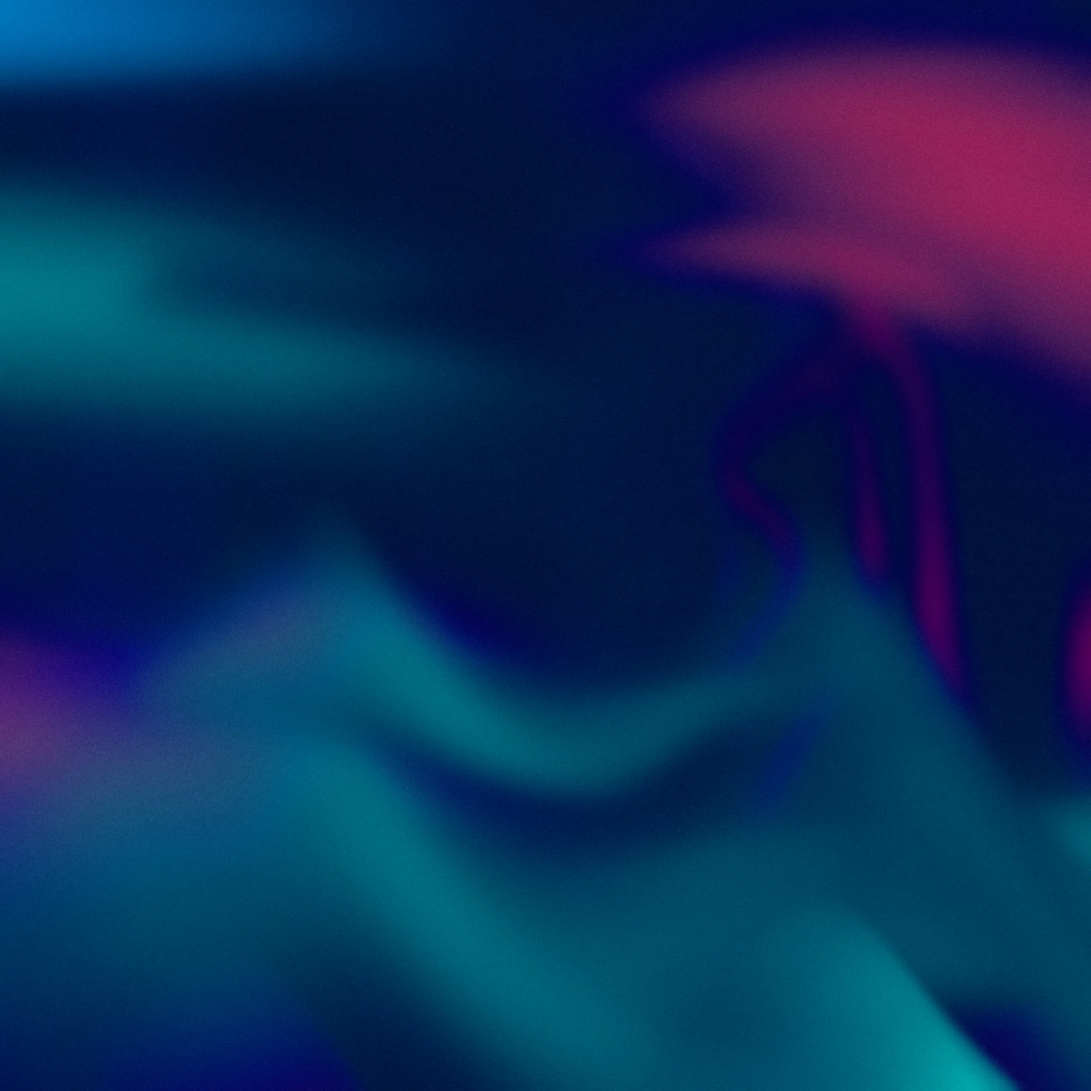
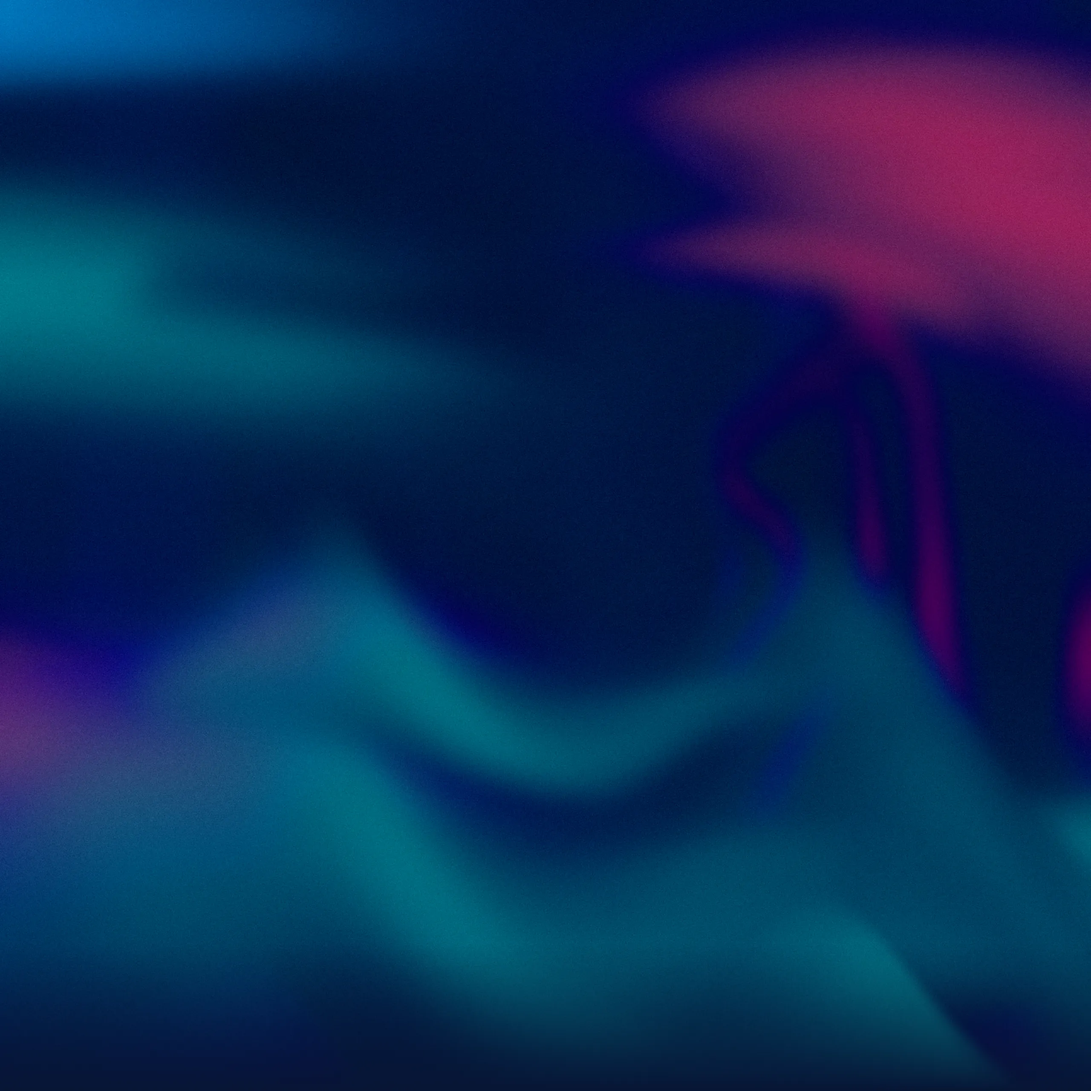
question scroll draft

Changed region(s): [[0.4062, 0.875, 1.0, 1.0], [0.0, 0.9062, 0.3438, 1.0]]

diff --git a/src/styles/_question.css b/src/styles/_question.css
@@ -180,7 +180,7 @@
         }
 
     .question__answers {
-        margin-top: 19px;
+        margin-top: 16px;
         position: relative;
         width: 100%;
         margin-left: auto;
@@ -191,8 +191,7 @@
     }
         .question__item {
             position: relative;
-            padding-left: 3px; /* чтобы не обрезались тени у инпутов и выбранных .answer */
-            padding-right: 3px; /* чтобы не обрезались тени у инпутов и выбранных .answer */
+            padding: 3px; /* чтобы не обрезались тени у инпутов и выбранных .answer */
             flex-basis: calc(50% - 30px);
         }
             @keyframes question-rating-left {
@@ -505,8 +504,8 @@
 @media (width < 740px) {
 
     .question {
-        padding-top: 2vh;
-        padding-bottom: 7.5vh;
+        padding-top: 1vh;
+        padding-bottom: 6vh;
     }
         .question__head {
             width: auto;
@@ -555,15 +554,17 @@
                     padding-right: calc(var(--container-padding) / 2);
                 }
                     .question__image {
-                        width: 100%;
-                        height: auto;
-                        margin-bottom: 24px;
+                        max-width: 100%;
+                        height: 100%;
+                        max-height: 170px;
+                        object-fit: contain;
+                        margin-bottom: 12px;
                     }
 
                     .question__title,
                     .question__image ~ .question__title {
-                        font-size: 24px;
-                        line-height: 32px;
+                        font-size: 20px;
+                        line-height: 28px;
                     }
 
             .question__control {
@@ -631,7 +632,7 @@
         }
 
         .question__answers {
-            margin-top: 24px;
+            margin-top: 12px;
             display: flex;
             flex-direction: column;
             grid-template-columns: 1fr;

diff --git a/src/styles/_html.css b/src/styles/_html.css
@@ -42,7 +42,7 @@ html {
 }
     @media (width < 740px) {
         .alternate-background {
-            background-image: url("../images/background-alternate-mobile.webp");
+            background-image: url("../images/background-alternate-smartphone.webp");
         }
     }
 

diff --git a/src/styles/_input.css b/src/styles/_input.css
@@ -348,3 +348,12 @@
         }
     }
 }
+
+
+@media (width < 740px) {
+    .input--larger textarea.input__widget {
+        min-height: auto;
+        padding-top: 14px;
+        padding-bottom: 14px;
+    }
+}
